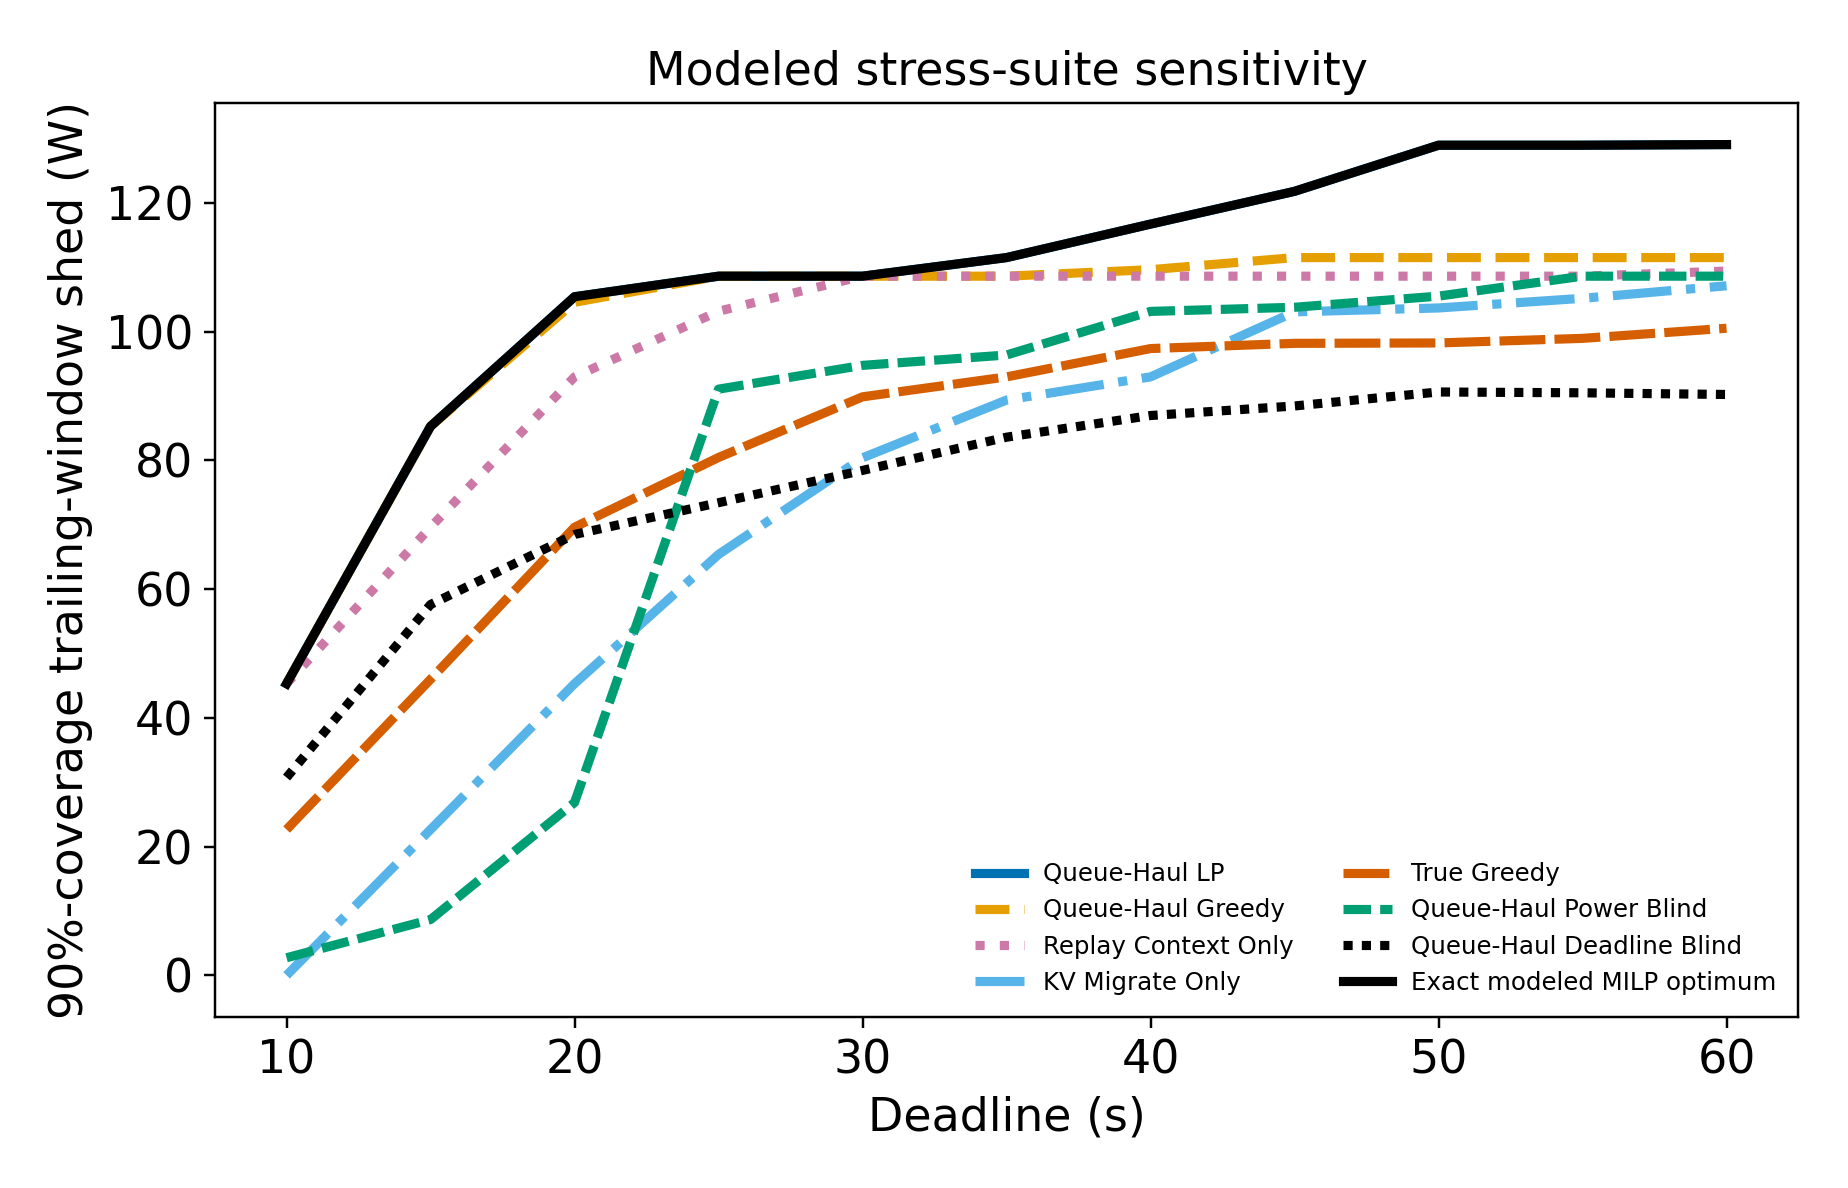
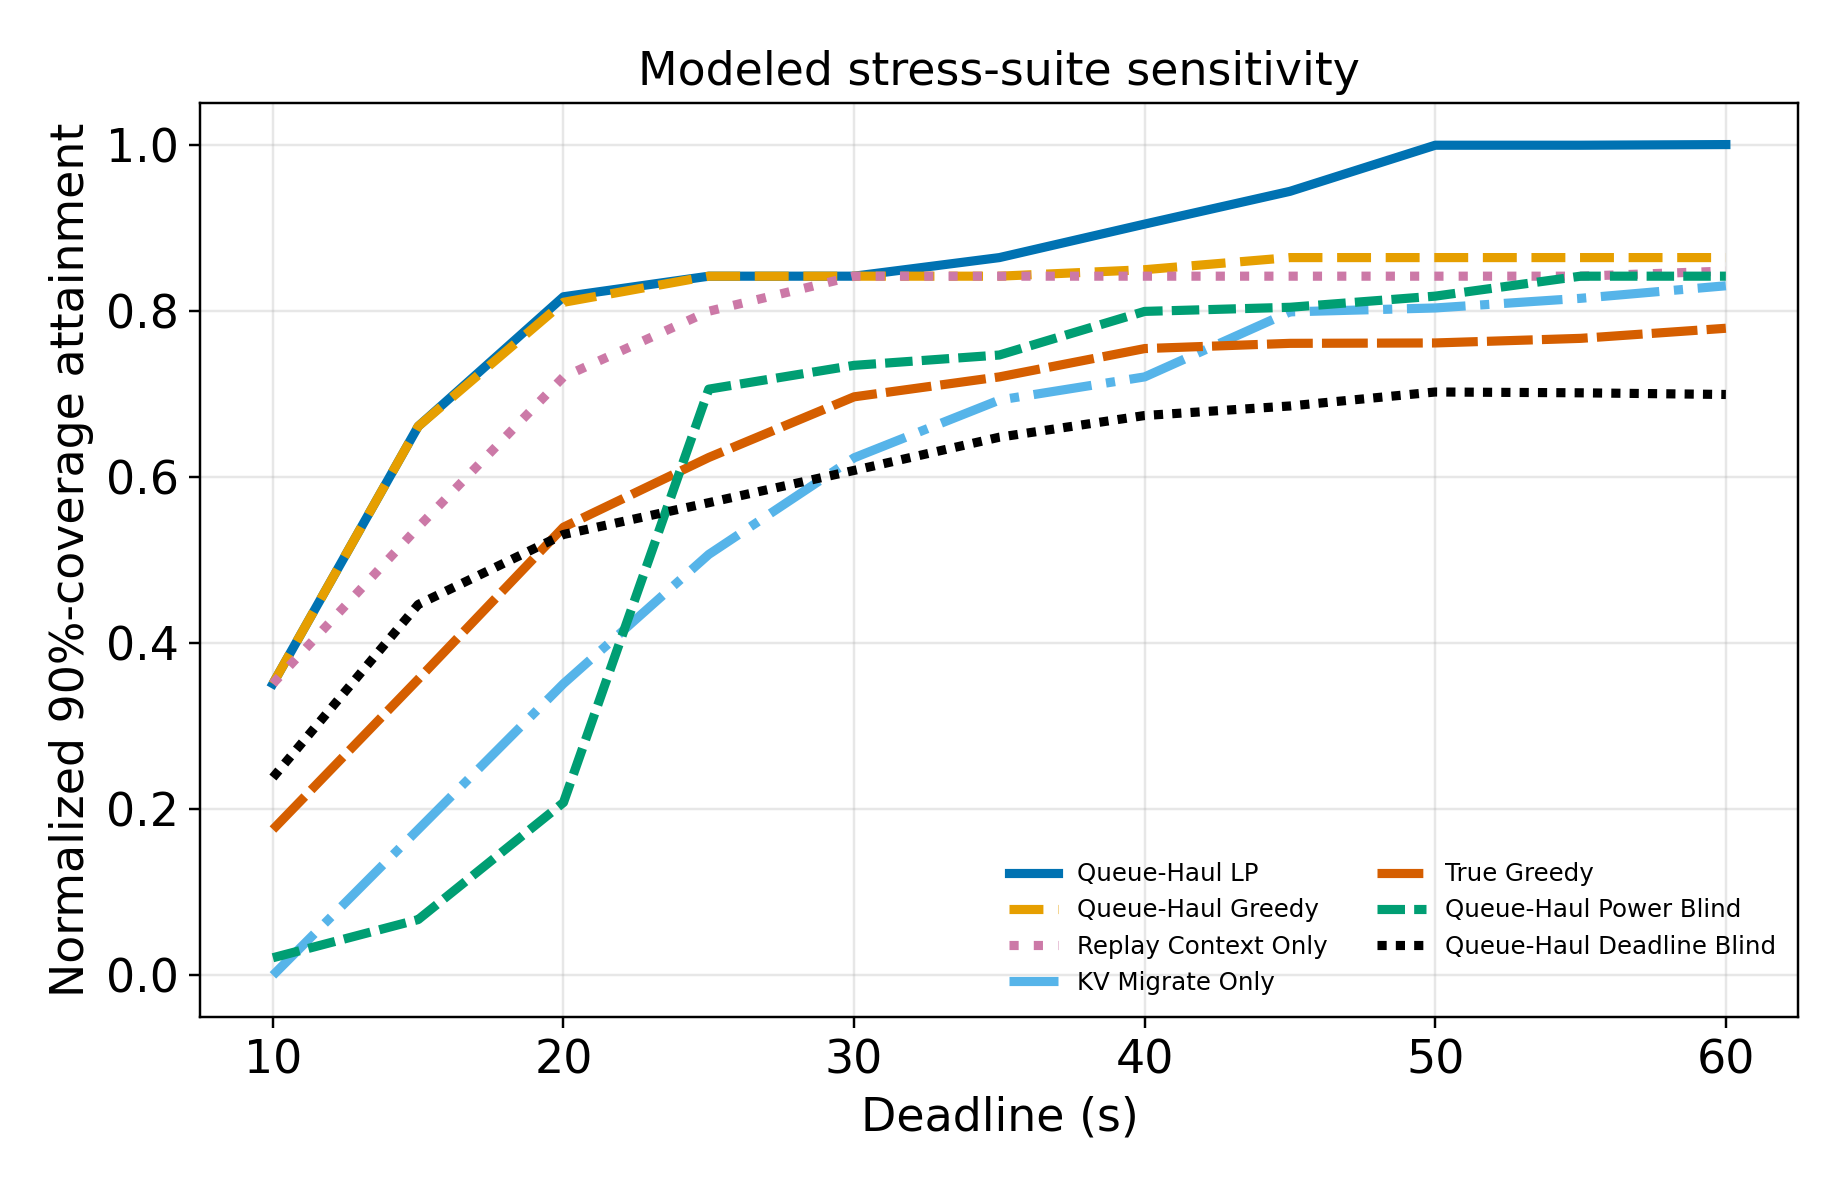
Normalize gated stress frontier plot

diff --git a/agent-migrate/queue-haul/tests/test_stress_frontier_campaign.py b/agent-migrate/queue-haul/tests/test_stress_frontier_campaign.py
@@ -1,3 +1,14 @@
+"""
+Claim:
+The stress-frontier plot scales every non-reference policy by their shared
+maximum and omits the exact MILP reference.
+
+Plausible wrong implementations:
+- Normalize each policy independently.
+- Include the omitted MILP reference in the denominator.
+- Plot the MILP reference after excluding it from normalization.
+"""
+
 from types import SimpleNamespace
 import csv
 
@@ -40,3 +51,17 @@ def test_reduction_labels_unpromoted_frontier_as_modeled(tmp_path, monkeypatch):
     assert {row["coverage_90_shed_w"] for row in result["frontier"]} == {4}
     assert {row["claim"] for row in result["frontier"]} == {
         "modeled stress-suite sensitivity"}
+
+
+def test_plot_normalizes_to_non_milp_maximum(tmp_path, monkeypatch):
+    rows = [{"deadline_s": 10, "policy": policy,
+             "coverage_90_shed_w": value}
+            for policy, value in zip((*campaign.POLICIES, campaign.REFERENCE),
+                                     (2, 4, 6, 8, 10, 12, 14, 100))]
+    lines = []
+    monkeypatch.setattr(campaign.plot_style, "policy_style", lambda policy: {})
+    import matplotlib.axes
+    monkeypatch.setattr(matplotlib.axes.Axes, "plot",
+                        lambda self, x, y, **kwargs: lines.append(y))
+    campaign._plot(rows, tmp_path / "frontier", False)
+    assert lines == [[value / 14] for value in (2, 4, 6, 8, 10, 12, 14)]

diff --git a/agent-migrate/queue-haul/stress_frontier_campaign.py b/agent-migrate/queue-haul/stress_frontier_campaign.py
@@ -293,14 +293,17 @@ def _plot(frontier: list[dict], stem: Path, empirical: bool) -> None:
     import matplotlib.pyplot as plt
     plot_style.apply()
     fig, ax = plt.subplots(figsize=(8.4, 5.4))
-    for policy in (*POLICIES, REFERENCE):
+    maximum = max(row["coverage_90_shed_w"] for row in frontier
+                  if row["policy"] in POLICIES)
+    for policy in POLICIES:
         selected = [row for row in frontier if row["policy"] == policy]
         ax.plot([row["deadline_s"] for row in selected],
-                [row["coverage_90_shed_w"] for row in selected],
+                [row["coverage_90_shed_w"] / maximum for row in selected],
                 **plot_style.policy_style(policy))
-    ax.set(xlabel="Deadline (s)", ylabel="90%-coverage trailing-window shed (W)",
+    ax.set(xlabel="Deadline (s)", ylabel="Normalized 90%-coverage attainment",
            title=("Empirical deadline–shed frontier" if empirical else
                   "Modeled stress-suite sensitivity"))
+    ax.grid(True, alpha=.3)
     ax.legend(frameon=False, fontsize=8, ncol=2)
     fig.tight_layout()
     for suffix in ("png", "pdf"):

diff --git a/agent-migrate/queue-haul/README.md b/agent-migrate/queue-haul/README.md
@@ -1351,6 +1351,9 @@ producers must inherit it. Policy identities are:
 | `queue_haul_power_blind` | Queue-Haul Power Blind | `#009E73` | short dash |
 | `queue_haul_deadline_blind` | Queue-Haul Deadline Blind | `#000000` | fine dotted |
 
+Stress-frontier figures omit the modeled MILP reference and normalize every
+displayed policy to the shared maximum 90%-coverage attainment.
+
 Rebuild them with:
 
 ```bash
